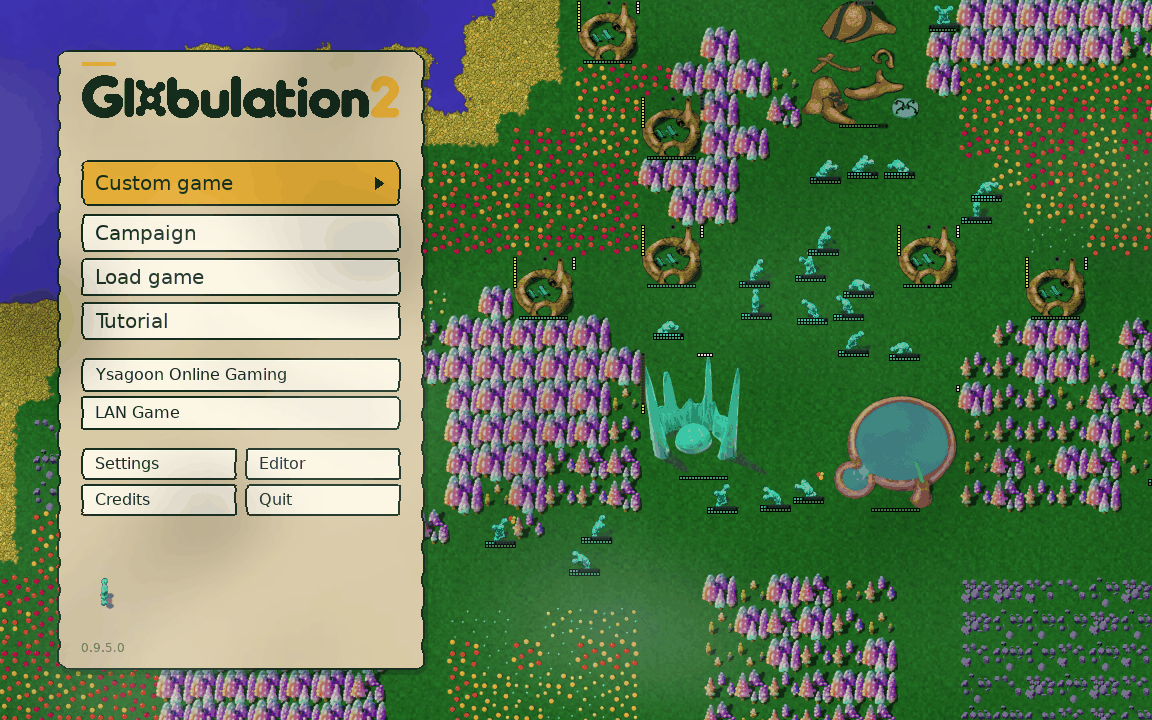
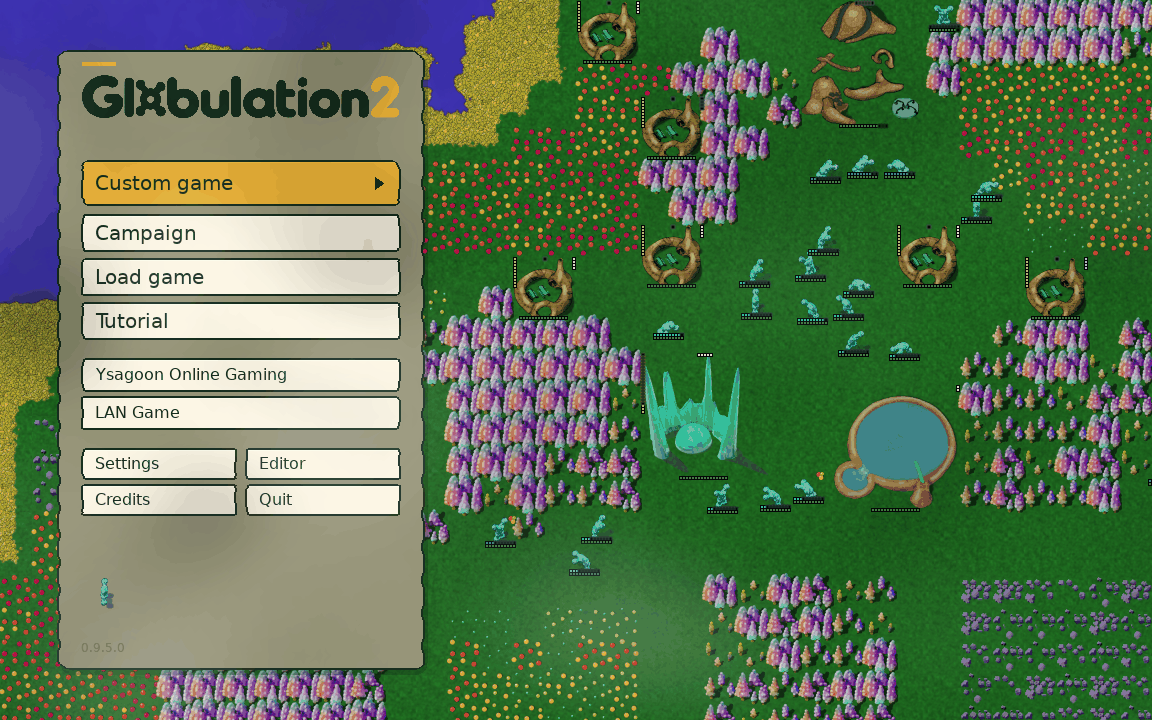
Let the colony read through the front page
Lower the front-page membrane to alpha 140 (from 214), so the terrain
shows through the sheet rather than only tinting it. panelAlpha() takes the
normal-mode value as a parameter; other screens keep theirs. Buttons are
opaque gel, so legibility is unchanged. Refresh the two main-menu captures.

Claude-Session: https://claude.ai/code/session_01MRgZCRPabZw9EKnhWNJG1S

diff --git a/src/MainMenuScreen.cpp b/src/MainMenuScreen.cpp
@@ -29,6 +29,8 @@ namespace
 {
 using namespace FrontendPalette;
 const auto fillRounded = FrontendTheme::rounded;
+// The front page is the most translucent sheet: the colony should read through it.
+const int frontPageAlpha = 140;
 }
 
 // Front-page layout and primary-action emphasis; shared drawing comes from the theme.
@@ -201,7 +203,7 @@ void MainMenuScreen::paint()
 	auto withAlpha = [entry](Color c) { return Color(c.r, c.g, c.b, Uint8(int(c.a) * entry / 10)); };
 	fillRounded(gfx, panelX + 3, panelY + 5, panelW, panelH, 12, withAlpha(Color(12, 28, 16, 70)));
 	FrontendTheme::blob(gfx, panelX, panelY, panelW, panelH, 12,
-		withAlpha(Color(membrane.r, membrane.g, membrane.b, FrontendTheme::panelAlpha())), withAlpha(ink), 2);
+		withAlpha(Color(membrane.r, membrane.g, membrane.b, FrontendTheme::panelAlpha(frontPageAlpha))), withAlpha(ink), 2);
 	fillRounded(gfx, panelX + 24, panelY + 12, 36, 4, 2, withAlpha(gold));
 	if (wordmark) gfx->drawSurface(panelX + 24, panelY + 24, wordmark.get(), Uint8(255 * entry / 10));
 	else

diff --git a/src/FrontendTheme.h b/src/FrontendTheme.h
@@ -37,7 +37,8 @@ public:
 	// The ring of blob() alone; never touches the interior (safe over list contents).
 	static void ring(GAGCore::DrawableSurface*, int x, int y, int w, int h, int r,
 		GAGCore::Color ink, int wobble, int inflate = 0);
-	static int panelAlpha();
+	// Membrane opacity: 'normal' for the usual case; 255 under low-speed graphics.
+	static int panelAlpha(int normal = 214);
 	void background(GAGCore::DrawableSurface*, bool panel = true, const SDL_Rect* content = nullptr);
 	void onFrame() override;
 	void afterPaint(GAGCore::DrawableSurface*) override;

diff --git a/src/FrontendTheme.cpp b/src/FrontendTheme.cpp
@@ -139,9 +139,9 @@ void FrontendTheme::ring(DrawableSurface* s,int x,int y,int w,int h,int r,Color 
 		s->drawFilledRect(x+w-rr-2,y+row,2,1,ink);
 	}
 }
-int FrontendTheme::panelAlpha()
+int FrontendTheme::panelAlpha(int normal)
 {
-	return (globalContainer->settings.optionFlags & GlobalContainer::OPTION_LOW_SPEED_GFX) ? 255 : 214;
+	return (globalContainer->settings.optionFlags & GlobalContainer::OPTION_LOW_SPEED_GFX) ? 255 : normal;
 }
 void FrontendTheme::onFrame()
 {
